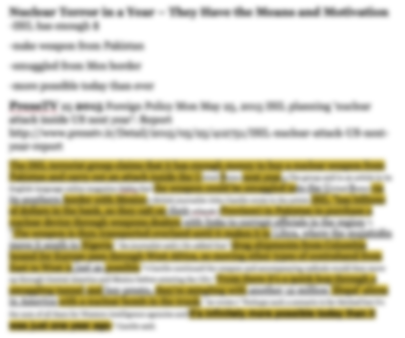
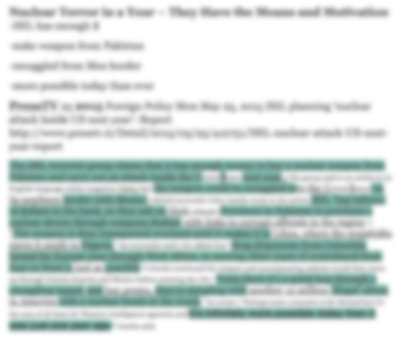
removed redundancy in App.css, made App.js constructor cleaner, updated background image files, allowed cards to be unhighlighted, tweaked DocView styles, added Back arrows

diff --git a/src/select-drill-screen.js b/src/select-drill-screen.js
@@ -2,7 +2,7 @@ import React, {Component} from 'react';
 import './App.css';
 
 import './semantic/dist/semantic.min.css';
-import { Button, Checkbox, Icon, Form, Placeholder } from 'semantic-ui-react';
+import { Button, Checkbox, Icon, Form, Header } from 'semantic-ui-react';
 
 import cards from './cards';
 import CardsSelectorList from './card-selector-list';
@@ -29,9 +29,11 @@ class SelectDrillScreen extends Component {
     };
   }
 
-  toggleHighlights = (e, { value }) => this.setState({ highlight: !this.state.highlight })
-  toggleReadForward = (e, { value }) => this.setState({ readForward: !this.state.readForward })
-  toggleShuffle = (e, { value }) => this.setState({ shuffle: !this.state.shuffle })
+  toggleHighlights = (e, { value }) => this.setState({ highlight: !this.state.highlight });
+  toggleReadForward = (e, { value }) => this.setState({ readForward: !this.state.readForward });
+  toggleShuffle = (e, { value }) => this.setState({ shuffle: !this.state.shuffle });
+
+  showStartScreen = (e) => this.state.setSceneCallback('startup', {});
 
   UNSAFE_componentWillMount() {
     const fs = window.bypass.fs;
@@ -76,8 +78,9 @@ class SelectDrillScreen extends Component {
     this.state.setSceneCallback('reader', {
       highlight: this.state.highlight,
       readForward: this.state.readForward,
+      shuffle: this.state.shuffle,
+      
       cardsFrom: cardsFrom,
-      shuffle: true,
       renderAdditionalFeatures: () => {}
     });
   }
@@ -93,7 +96,7 @@ class SelectDrillScreen extends Component {
   renderReadingDirectionButton() {
     return (
       <Form.Field>
-        <Checkbox label='Read backward' onClick={this.toggleReadForward} checked={this.state.readForward}/>
+        <Checkbox label='Read backward' onClick={this.toggleReadForward} checked={!this.state.readForward}/>
       </Form.Field>
     );
   }
@@ -109,7 +112,10 @@ class SelectDrillScreen extends Component {
   render() {
     return (
     <div className="ui very padded text left aligned container segment">
-      <h1 className="ui header">Options</h1>
+    
+      <Header as="h1">
+        Options
+      </Header>
 
       <Form>
       
@@ -119,15 +125,25 @@ class SelectDrillScreen extends Component {
 
         <h3 className="ui header">Cards from</h3>
         <CardsSelectorList setElementsCallback={this.setElementsCallback}/>
-        <Button
-          positive
-          icon
-          labelPosition="right"
-          onClick={this.moveToNextScreen}
-        >
-          Begin
-          <Icon name='right arrow' />
-        </Button>
+        
+        <Button.Group>
+          <Button
+              icon
+              labelPosition="left"
+              onClick={this.showStartScreen}>
+              Back
+              <Icon name='left arrow' />
+          </Button>
+          <Button.Or />
+          <Button
+            positive
+            icon
+            labelPosition="right"
+            onClick={this.moveToNextScreen}>
+            Begin
+            <Icon name='right arrow' />
+          </Button>
+        </Button.Group>
       </Form>
       
     </div>

diff --git a/src/reader-screen.js b/src/reader-screen.js
@@ -52,13 +52,14 @@ class ReaderScreen extends React.Component {
   getHTML() {
     var html = `
       <style>
-        .card-highlight { background-color: yellow; font-size: 120%; }
+        .card-highlight { background-color: #8CD7FF; }
         .card-underline { text-decoration: underline; }
         .tag { font-weight: bold; font-size: 140%; }
         .cite { font-weight: bold; font-size: 130%;}
-        .card-body { }
-        body { font-family: 'Calibri', 'Arial', 'Times New Roman'; }
-        ::-webkit-scrollbar { display: none; }
+        body { font-family: 'Calibri', 'Arial', 'Times New Roman'; font-size: 110%; }
+        .card-body .card-underline { font-size: 115%; }
+        .card-body .card-highlight { font-size: 105%; }
+        /*::-webkit-scrollbar { display: none; }*/
       </style>
     `;
     this.state.cards.forEach(card => {
@@ -69,10 +70,12 @@ class ReaderScreen extends React.Component {
         reverse: !this.state.readForward,
         noHL: !this.state.highlight,
         noUL: false 
-      });
+      }) + '<br><br>';
     });
     return html;
   }
+
+  showDrillScreen = (e) => this.state.setSceneCallback('selectDrillScreen', {})
 
   scroll(multiplier) {
     var elem = document.getElementById('reader');
@@ -95,7 +98,6 @@ class ReaderScreen extends React.Component {
   }
 
   componentWillMount() {
-    document.body.style.backgroundImage = null;
     document.addEventListener('keydown', this.keyPress);
   }
 
@@ -106,8 +108,16 @@ class ReaderScreen extends React.Component {
   render() {
     return (
       <div className="ui left aligned container segment" style={{backgroundColor: '#f6f6f6'}}>
-        <Header as='h1' textAlign='center'>Reader View</Header>
         <Table>
+          <Table.Row>
+            <Table.Cell>
+              <Button icon='arrow left' basic onClick={this.showDrillScreen} />
+            </Table.Cell>
+            <Table.Cell>
+              <Header as='h1' textAlign='center'>Doc View</Header>
+            </Table.Cell>
+          </Table.Row>
+          
           <Table.Row>
             <Table.Cell width={1}><Button basic size='massive' icon='angle left' onClick={this.scrollUp}/></Table.Cell>
             <Table.Cell width={14}><div dangerouslySetInnerHTML={{__html: this.getHTML()}} id="reader" className="reader"></div></Table.Cell>

diff --git a/src/App.js b/src/App.js
@@ -13,18 +13,18 @@ class App extends Component {
 
     cards.loadDBs();
     this.state = {
+      sceneOptions: {
+        highlight: true,
+        readForward: true,
+        cardsFrom: [
+          new cards.CardDBIdentifier('1AC Case', 'db-0'),
+          new cards.CardDBIdentifier('2AC Case', 'db-1'),
+          // new cards.CardDBIdentifier('2AC Kritik Answers', 'db-2'),
+          // new cards.CardDBIdentifier('2AC CP Answers', 'db-3'),
+        ]
+      },
       // scene: 'reader',
-      // sceneOptions: {
-      //   highlight: true,
-      //   readForward: true,
-      //   cardsFrom: [
-      //     new cards.CardDBIdentifier('1AC Case', 'db-0'),
-      //     new cards.CardDBIdentifier('2AC Case', 'db-1'),
-      //     // new cards.CardDBIdentifier('2AC Kritik Answers', 'db-2'),
-      //     // new cards.CardDBIdentifier('2AC CP Answers', 'db-3'),
-      //   ]
-      // },
-      scene: 'selectDrillScreen',
+      scene: 'startup',
       sceneMap: {
         startup: StartupScreen,
         selectDrillScreen: SelectDrillScreen,

diff --git a/src/startup-screen.js b/src/startup-screen.js
@@ -2,7 +2,7 @@ import React, {Component} from 'react';
 import './App.css';
 
 import exampleParagraph from './assets/example-paragraph.png';
-import bg from './assets/background-cards.png';
+import bg from './assets/maxresdefault.jpg';
 
 import './semantic/dist/semantic.min.css';
 import { Button, Card, Image, Container, CardGroup, Header, Menu, Form } from 'semantic-ui-react';
@@ -198,6 +198,11 @@ class StartupScreen extends Component {
 
   componentWillMount() {
     document.body.style.backgroundImage = 'url(' + bg + ')';
+    document.body.style.backgroundPosition = 'center';
+    document.body.style.backgroundSize = 'cover';
+    document.body.style.backgroundRepeat = 'no-repeat';
+    document.body.style.backgroundAttachment = 'fixed';
+     
   }
 
   render() {

diff --git a/src/App.css b/src/App.css
@@ -2,30 +2,11 @@
   text-align: left;
 }
 
-.card-highlight {
-  background-color: yellow;
-  font-size: 120%;
-}
-
-.card-underline {
-  text-decoration: underline;
-}
-
-.tag {
-  font-weight: bold;
-  font-size: 140%;
-}
-
-.cite {
-  font-weight: bold;
-  font-size: 130%;
-}
-
 .reader {
-  height: calc(99vh - 100px);
+  height: calc(99vh - 115px);
   display: block;
 
-  overflow: scroll;
+  overflow: auto;
   line-height: 1.3;
   padding: 0px 0px 0px 0px;
   margin: 0px 0px 0px 0px;

diff --git a/src/cards.js b/src/cards.js
@@ -59,7 +59,7 @@ class Card {
   }
 
   isValidCard() {
-    return this.stats.highlightedWords > 2;
+    return true; //TODO change to > 2
   }
 
   htmlify(text, options) {
